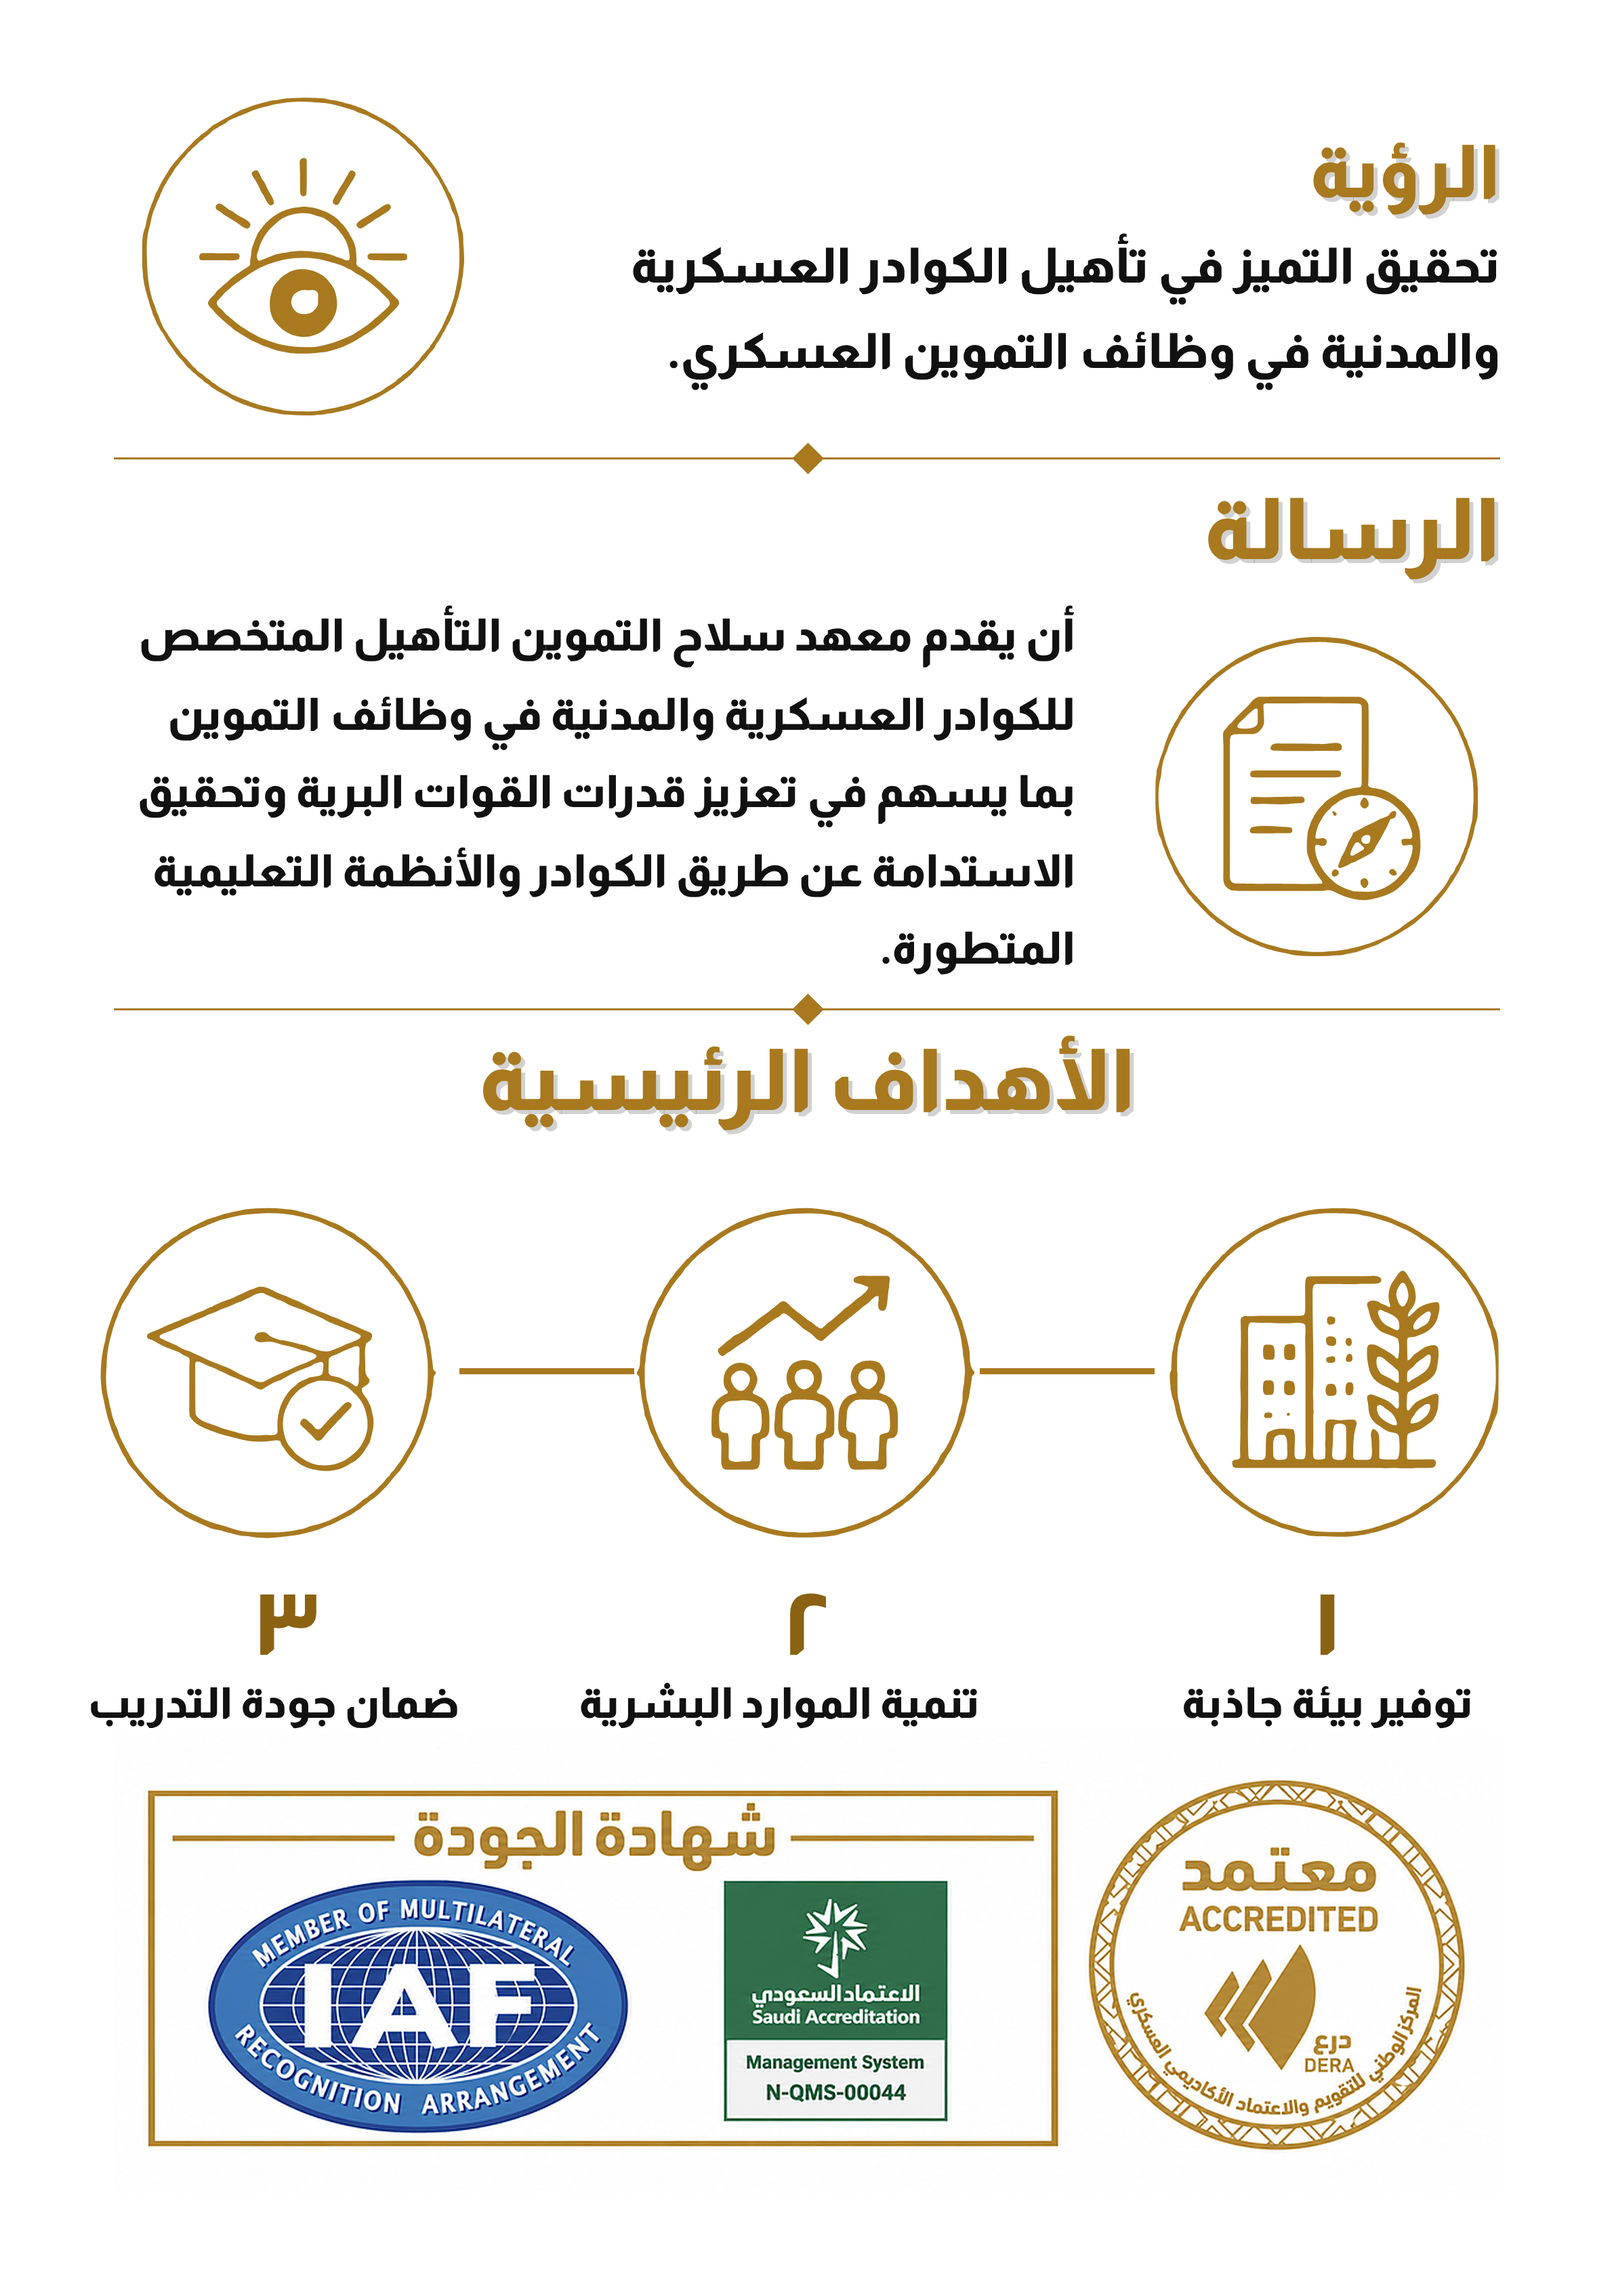
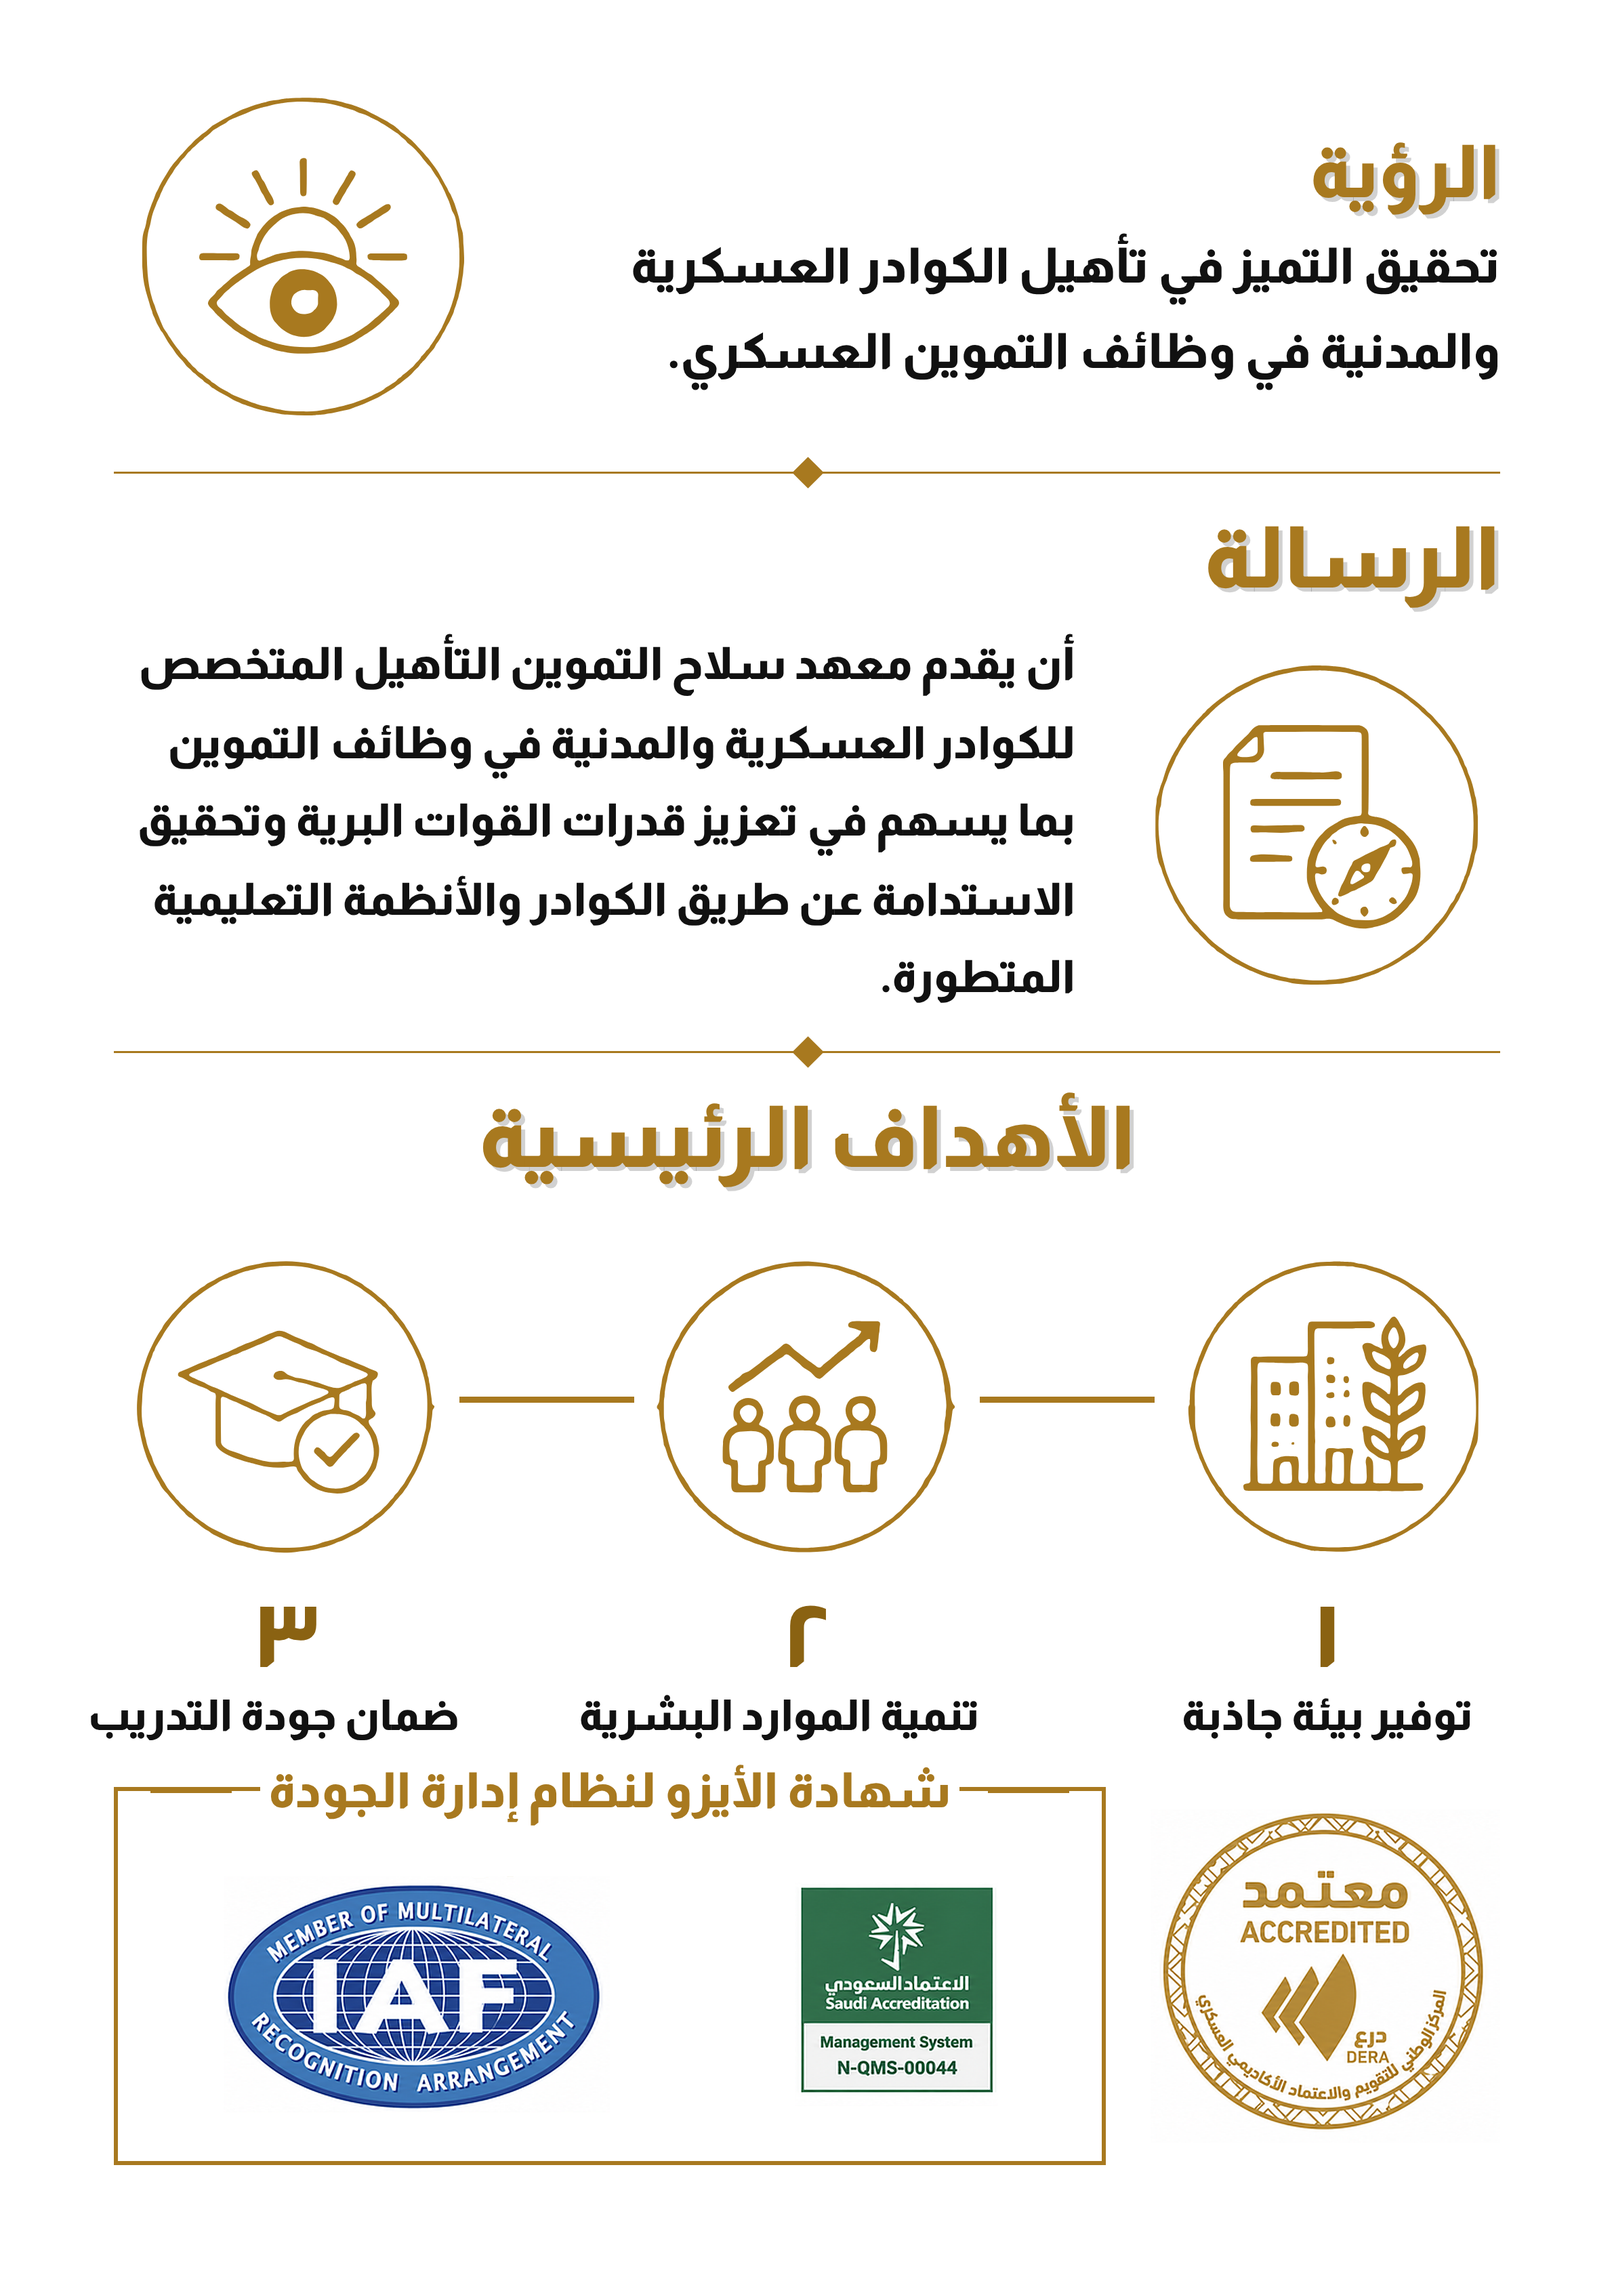
Replace quality certificate title with ISO quality management system certificate
Claude-Session: https://claude.ai/code/session_01HHtdcPQB4WrWFBfNpP3BhG

Changed region(s): [[0.0621, 0.2493, 0.932, 0.9662], [0.7145, 0.2182, 0.932, 0.4363], [0.4971, 0.187, 0.5281, 0.2182]]

diff --git a/infographic/index.html b/infographic/index.html
@@ -23,11 +23,19 @@
   #goals h2{font-size:42px;text-align:center;margin-bottom:22px}
   .goals{display:flex;justify-content:center;align-items:flex-start}
   .goal{width:170px;text-align:center;flex:none}
-  .goal img{height:188px;width:auto;display:block;margin:0 auto}
+  .goal img{height:166px;width:auto;display:block;margin:0 auto}
   .goal .n{font-size:44px;color:var(--gold-dark);margin-top:8px;line-height:1.1}
   .goal .t{font-size:21px;margin-top:2px;white-space:nowrap}
-  .link{flex:1;max-width:100px;height:3px;background:var(--gold);margin-top:94px}
-  #cert{width:100%;height:auto;display:block}
+  .link{flex:1;max-width:100px;height:3px;background:var(--gold);margin-top:80px}
+  #cert{display:flex;align-items:center;gap:22px;height:214px}
+  #cert img{mix-blend-mode:multiply;height:auto}
+  .cert-box{flex:1;height:186px;border:2.5px solid var(--gold);position:relative;display:flex;align-items:center;justify-content:center;padding:18px 16px 0}
+  .cert-box h3{position:absolute;top:-17px;left:0;right:0;display:flex;align-items:center;gap:14px;padding:0 16px;color:var(--gold);font-size:24px;line-height:34px;text-align:center}
+  .cert-box h3::before,.cert-box h3::after{content:"";flex:1;height:2.5px;background:var(--gold)}
+  .cert-box h3 span{background:#fff;padding:0 4px;white-space:nowrap}
+  .logos{display:flex;align-items:center;justify-content:space-around;width:100%;gap:20px}
+  .logos img:nth-child(1){width:100px}.logos img:nth-child(2){width:190px}
+  .seal{width:172px;flex:none}
 </style>
 </head>
 <body>
@@ -64,7 +72,16 @@
     </div>
   </section>
 
-  <img id="cert" src="assets/cert.png" alt="">
+  <section id="cert">
+    <img class="seal" src="assets/seal.png" alt="">
+    <div class="cert-box">
+      <h3><span>شهادة الأيزو لنظام إدارة الجودة</span></h3>
+      <div class="logos">
+        <img src="assets/sa.png" alt="">
+        <img src="assets/iaf.png" alt="">
+      </div>
+    </div>
+  </section>
 </div>
 </body>
 </html>
